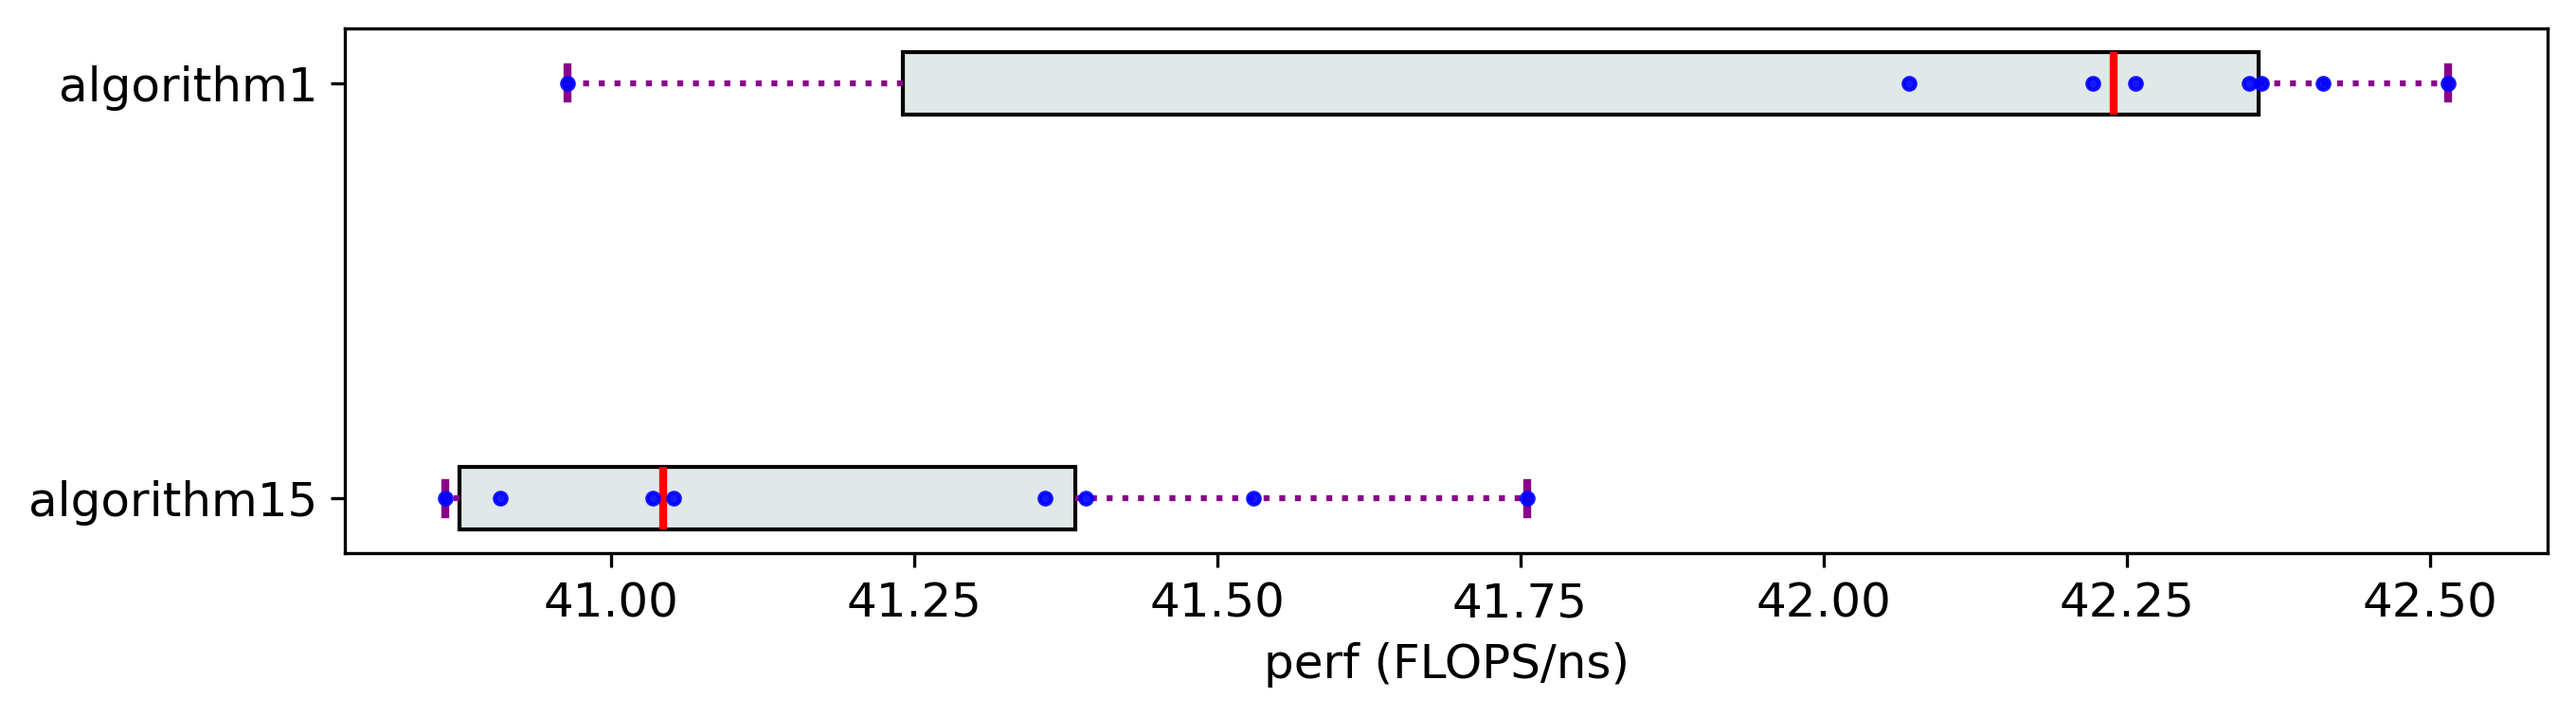
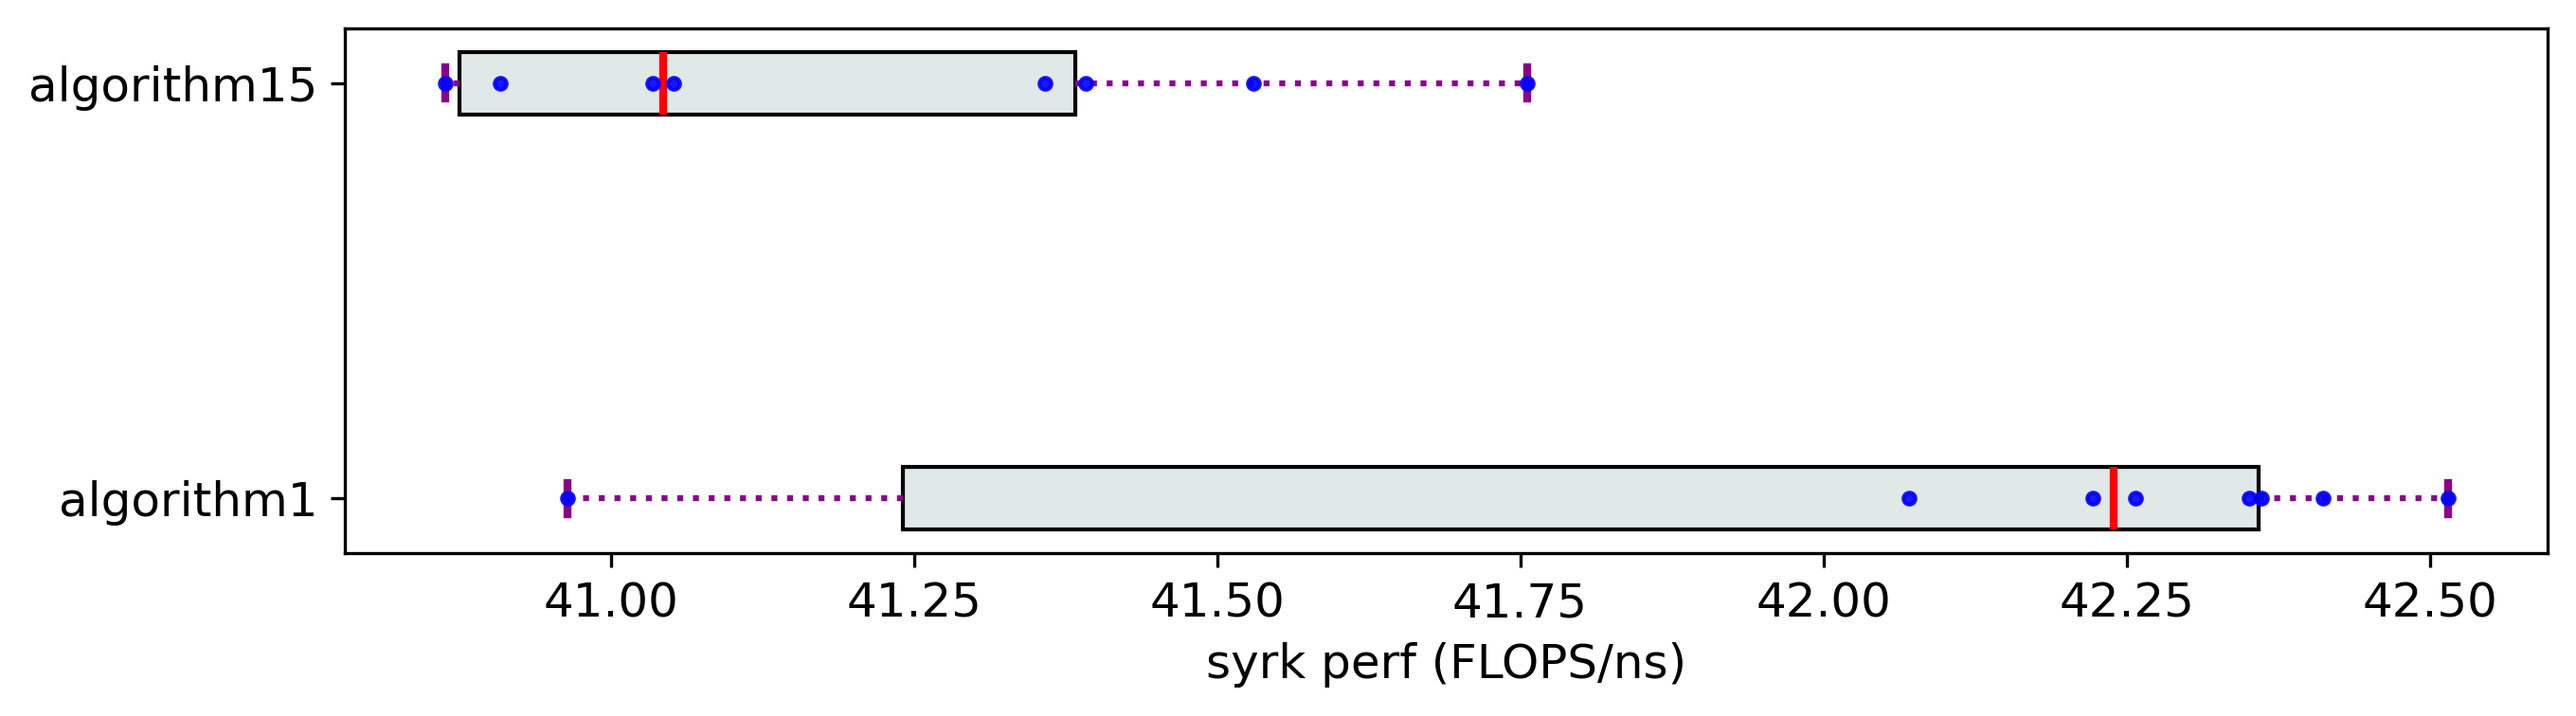
fixed alg order in bp activity plot

diff --git a/data/thesis-ch4/figures/bp_activities.py b/data/thesis-ch4/figures/bp_activities.py
@@ -50,7 +50,8 @@ def bp_algs(data_dir, activity):
     ranks_m3 = pr.get_ranks()
     
     mv = MeasurementsVisualizer(measurements)
-    fig = mv.show_measurements_boxplots(obj_list=algs_seq, scale=1.2, unit=f'{activity} perf (FLOPS/ns)')
+    # fig = mv.show_measurements_boxplots(obj_list=algs_seq, scale=1.2, unit=f'{activity} perf (FLOPS/ns)')
+    fig = mv.show_measurements_boxplots(obj_list=['algorithm1', 'algorithm15'], scale=1.2, unit=f'{activity} perf (FLOPS/ns)')
     fig.savefig(f'bp_{activity}.pdf', dpi=300, bbox_inches="tight")
     
     print(f"{len(ranks_m1)}-{len(ranks_m2)}-{len(ranks_m3)}")
